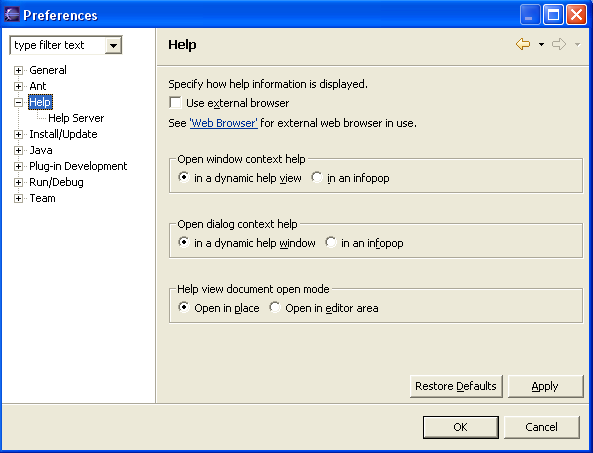
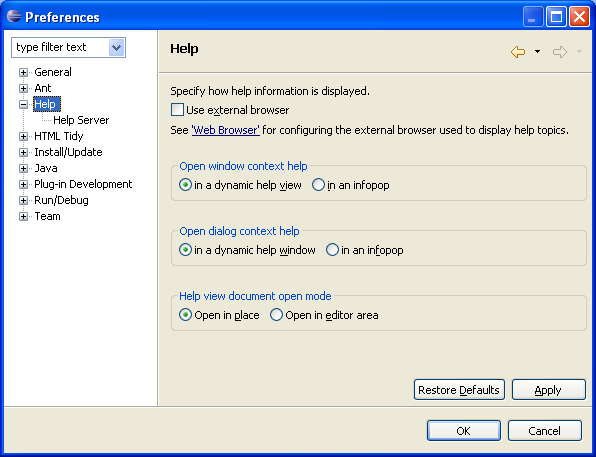
documenting 3.1 help system

Changed region(s): [[0.0, 0.0, 1.0, 1.0]]

diff --git a/bundles/org.eclipse.platform.doc.user/concepts/chelpsys.htm b/bundles/org.eclipse.platform.doc.user/concepts/chelpsys.htm
@@ -17,16 +17,19 @@
 <h1>Help system</h1>
 
 <p>The online help system lets you 
-browse, search, and print system documentation. The documentation is organized into sets of 
-information that are analogous to books. The help system also supplies a text
-search engine for finding the information you need by keyword and
+browse, search, and print system documentation. The documentation is organized
+  into sets of  information that are analogous to books. The help system also
+  supplies a text
+search capabilities for finding the information you need by keyword and
 context-sensitive help for finding information to describe the particular
 function you are working with.</p>
-
+<p>You can interact with help system in the workbench using Help view, or in
+  external help window or a browser.</p>
 <h2>The help browser</h2>
 
 <p>When you first open the help browser by selecting <b>Help &gt; Help Contents</b> 
-in the Workbench, the first view shown is called Contents.  Contents displays 
+in the Workbench, the first view shown in the help window is called Contents.
+   Contents displays 
 various groupings of documentation for the product. Click on 
 one of the links to expand the navigation tree for that set of documentation.
 Browse the tree and click on topics to display them.</p>
@@ -36,19 +39,39 @@ Browse the tree and click on topics to display them.</p>
 Search. The help system will search the entire information set, or only a part
 of it, to find topics that meet the criteria you specify.</p>
 
+<h2>The Help view</h2>
+
+<p>You can open a Help view by The Help view
+  by selecting <b>Help &gt; Dynamic Help</b> or by selecting <b>Help &gt; Search </b>
+in the Workbench., A help view will open turing to the Related Topics or to the
+Search page. You can use links at the bottom of the help view to turn to other
+pages. Browse topics and click on links to display them.</p>
+
 <h2>Context-sensitive help</h2>
 
 <p>If you are working through a task and encounter part of the interface that
-you do not understand, use infopops. Bring focus to the interface widget in
+you do not understand, use context-sensitive help.. Bring focus to the
+  interface widget in
 question by clicking on it or using the Tab key, and then press <code>F1</code>
-(<code>Ctrl+F1</code> on GTK+, and <code>Help</code> key on Carbon). The infopop
-will provide you with information about the interface and, if appropriate, links
-to more information.</p>
-<p>Note: On the default install of KDE, Ctrl+F1 is the key binding for "Switch
+(<code>Ctrl+F1</code> on GTK+, and <code>Help</code> key on Carbon). A Help view
+will display description of the widget in focus, and list related topics. Leave
+the Help view open to see information on other interface elements when you focus
+on them.</p>
+<p>An alternative way of presenting context-sensitive information are infopops.
+  You can use help preference page to choose to use infopops instead of Help
+  view for displaying context-sensitive help. If configured, a context help key,
+  such as <code>F1</code>, will open an infopop that will provide you with information
+  about the interface and, if appropriate, links
+  to more
+  information.</p>
+<p>Note: On the some installation of KDE, Ctrl+F1 is the key binding for "Switch
 to Desktop 1".  To make context-sensitive help work with GTK+ on KDE, then that
 binding must be removed.  Try using the "KDE Default for 4 Modifier Keys" key
 binding scheme.</p>
 
+<p><img border="0" src="../images/ngrelc.png" alt=
+"Related concepts"><br>
+<a href="chelpview.htm">Help View</a></p>
 <p>
 <img border="0" src="../images/ngrelt.png" alt="Related tasks" ><br>
 <a href="../tasks/taccess.htm">Accessing and navigating online help</a><br>

diff --git a/bundles/org.eclipse.platform.doc.user/tasks/tchgbrws.htm b/bundles/org.eclipse.platform.doc.user/tasks/tchgbrws.htm
@@ -7,42 +7,39 @@
 <META HTTP-EQUIV="Content-Type" CONTENT="text/html; charset=ISO-8859-1">
 <META HTTP-EQUIV="Content-Style-Type" CONTENT="text/css">
 <LINK REL="STYLESHEET" HREF="../book.css" CHARSET="ISO-8859-1" TYPE="text/css">
-<title>Changing the web browser used by the help system</title>
+<title>Changing how help information is displayed</title>
 </head>
 
 <BODY BGCOLOR="#ffffff">
-<h1>Changing the web browser used by the help system</h1>
+<h1>Changing how help information is displayed</h1>
 
-<p>The help system uses browser adapters to display online documentation in an
-   embedded web browser or an external browser you have installed on your
-   system.</p>
+<h2>Help browser</h2>
+<p>The help system can be accessed in help view, or separate help window. The
+  help window may have a form of a simple window with an embedded browser, or
+  be one of the web browser available on your system.</p>
 <p>If embedded web browser is supported on your system, help uses an embedded
   help browser to display help, whenever possible. When a
   modal window is showing on the screen, that would prevent interacting with
   the embedded browser, requesting help opens an external browser. If embedded
   browser is used on your system and you prefer to always use external browser,
-  you select this behavior in help preferences. Similarly, if you have more than
-  one supported adapter and browser, you can select which adapter you want the help 
-  system to use. To change the web browser adapter setting: 
+you may select this behavior in help preferences.</p>
+<h2>Context help</h2>
+<p>By default, context-sensitive help for workbench elements is displayed in
+  the help view. Context-sensitive help for dialogs is displayed adjacent to
+  the dialog,
+  in a window similar to the help view. If you prefer to display context help
+  in infopops when working in the workbench, in dialogs or both, change the selection
+  in the help preference page.</p>
+<p>
+<h2>Displaying topics</h2>
+<p>A topic selected in the help view can be displayed in place, in the help view,
+  or in the editor area. You may indicate suitable way in the help preferences.
+  On some platforms, with no embedded browser, the topics will always be displayed
+  in an external browser.</p>
+<p>
+<img border="0" src="../images/ngrelr.png" alt="Related reference" >
+<br><a href="../reference/ref-18.htm">Help preference page</a>
 </p>
-<ol>
-  <li>Select <b>Window &gt; Preferences</b> to open the Preferences notebook.</li>
-  <li>Select <b>Help</b>.</li>
-  <li>If embedded help browser is supported on your system, but you prefer
-    to use external one, select <strong>Always use external browsers</strong>.</li>
-  <li>In the <b>Current web browser adapter</b> box, select the desired adapter.
-    If only one  external adapter appears, it cannot be changed.</li>
-</ol>
-
-<p>If your system does not have any of the supported browser adapters installed,
-   you may only see <b>Custom browser</b> in the Preferences. In that case, specify
-   a path to the browser program that launches your browser.
-   If the program is available on your system path, you may specify only the program
-   name.
-   If the program does not accept URL as its last parameter, you may use <i>%1</i> string
-   to denote the position of the URL parameter in the command.
-</p>
-
 
 
 </body>

diff --git a/bundles/org.eclipse.platform.doc.user/reference/ref-18.htm b/bundles/org.eclipse.platform.doc.user/reference/ref-18.htm
@@ -14,7 +14,7 @@
 <H1 CLASS="Head">
 Help</H1>
 <P CLASS="Para">
-On the Help preferences page, you can indicate how to display help books.</P>
+On the Help preferences page, you can indicate how to display help information.</P>
 <TABLE BORDER="1" cellspacing="0">
   <THEAD>
     <TR> 
@@ -25,9 +25,10 @@ On the Help preferences page, you can indicate how to display help books.</P>
     <TR> 
       <TH align="left"> <span style="font-weight: 400">Use external browsers</span></TH>
       <TH align="left"> <span style="font-weight: 400">If embedded web browser 
-        is supported on your system, help uses an embedded help browser to display 
-        help, whenever possible, and this option is available. Select it , to 
-        force help to use external browsers from the list.</span> </TH>
+        is supported on your system, help window uses an embedded help browser
+        to display help contenst, whenever possible, and this option is available.
+        Select it, to force help to use external browsers.  Use &quot;Web
+        Browser&quot; preferrence page to select browser to use.</span> </TH>
       <TH align="left"> <span style="font-weight: 400">Off</span></TH>
     </TR>
     <TR> 
@@ -43,15 +44,15 @@ On the Help preferences page, you can indicate how to display help books.</P>
       <TH align="left"> <span style="font-weight: 400">Open dialog context help</span></TH>
       <TH align="left"><span style="font-weight: 400">This option allows you to 
         determine whether the dialog context help will be opened in a dynamic 
-        help window or in an infopop.</span></TH>
+        help section of help view or in an infopop.</span></TH>
       <TH align="left"> <span style="font-weight: 400">in a dynamic help window</span></TH>
     </TR>
     <TR> 
       <TH align="left"> <span style="font-weight: 400">Help view document open 
         mode </span></TH>
       <TH align="left"><span style="font-weight: 400">This option allows you to 
-        determine whether the Help view document will be opened in place or in 
-        the editor area.</span></TH>
+        determine whether the documents selected in the help view will be opened
+        in place or in the editor area.</span></TH>
       <TH align="left"> <span style="font-weight: 400">Open in place </span></TH>
     </TR>
   </THEAD>
@@ -79,6 +80,7 @@ On the Help preferences page, you can indicate how to display help books.</P>
 <p>
 <img border="0" src="../images/ngrelr.png" alt="Related reference" >
 <br><a href="ref-34.htm">Help View</a>
+<br><a href="ref-42.htm">Web Browser</a>
 </p>
 
 

diff --git a/bundles/org.eclipse.platform.doc.user/reference/ref-61.htm b/bundles/org.eclipse.platform.doc.user/reference/ref-61.htm
@@ -28,17 +28,23 @@ features.</P>
 <h2 CLASS="Head">
 Search</h2>
 <P CLASS="Para">
-This command displays the help view opened on the search page.</P>
-<h2 CLASS="Head"> Tips and Tricks</h2>
+This command displays the help view opened on the Search page.</P>
+<h2 CLASS="Head">
+Dynamic Help</h2>
+<P CLASS="Para">
+This command displays the help view opened to Related Topics page.</P>
+<h2 CLASS="Head"> Key Assist ...</h2>
+  <p CLASS="Head"> This command will display a list of key bindings</p>
+  <h2 CLASS="Head"> Tips and Tricks ...</h2>
 <p CLASS="Head">
 This command will open a list of interesting productivity features that you may not have discovered.</p>
+<h2 CLASS="Head"> Cheat Sheets ...</h2>
+  <p CLASS="Head"> This command will open the cheat sheet selection dialog.</p>
 <h2 CLASS="Head">
 <a NAME="SoftwareUpdates"></a>Software Updates</h2>
 <P CLASS="Para">
 This group of commands allows you to update your product and to download and
 install new features.</P>
-<h2 CLASS="Head"> Cheat Sheets</h2>
-  <p CLASS="Head"> This command will open the cheat sheet selection dialog.</p>
 <h2 CLASS="Head">
 About</h2>
 <P CLASS="Para">

diff --git a/bundles/org.eclipse.platform.doc.user/reference/ref-helpserver.htm b/bundles/org.eclipse.platform.doc.user/reference/ref-helpserver.htm
@@ -49,11 +49,11 @@ to be used by the server.</span>
 <TH align="left">
 <span style="font-weight: 400">Port</span></TH>
 <TH align="left">
-<span style="font-weight: 400">IP port for server to listen on.  If 0 is specified
+<span style="font-weight: 400">IP port for server to listen on.  If no port is specified
 for the value, a port will be assigned by the operating system.</span>
 </TH>
 <TH align="left">
-<span style="font-weight: 400">0</span></TH>
+<span style="font-weight: 400">blank</span></TH>
 </TR>
 </THEAD>
 <TBODY>
